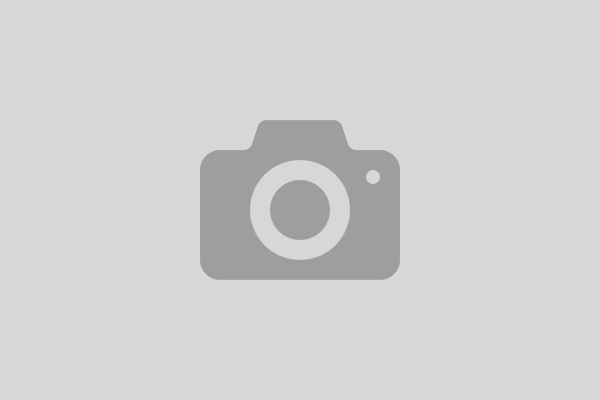
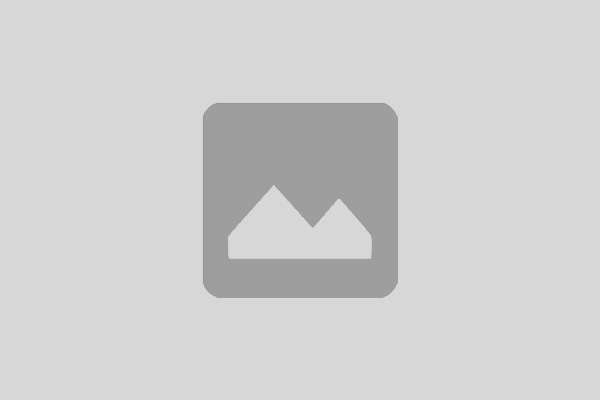
Added placeholder image for photo for #68

Changed region(s): [[0.33, 0.24, 0.69, 0.75], [0.66, 0.42, 0.69, 0.66]]

diff --git a/src/providers/api-service.ts b/src/providers/api-service.ts
@@ -168,8 +168,10 @@ export class ApiService extends HttpService {
               user.id = item.id;
               user.email = item.email;
               user.name = item.realname;
-              user.gravatar = item.gravatar;
-              user.image = `https://www.gravatar.com/avatar/${item.gravatar}.jpg?s=32`;
+              if (item.gravatar) {
+                user.gravatar = item.gravatar;
+                user.image = `https://www.gravatar.com/avatar/${item.gravatar}.jpg?s=32`;
+              }
               users.push(user);
               saves.push(this.database.saveUser(deployment, user));
             }
@@ -606,6 +608,7 @@ export class ApiService extends HttpService {
         let api = `/api/v3/media`;
         let url = deployment.url + api;
         let params = {
+          order: "desc",
           limit: limit,
           offset: offset };
         this.httpGet(url, deployment.access_token, params).then(

diff --git a/src/components/value/value.html b/src/components/value/value.html
@@ -14,7 +14,7 @@
     <div class="value-text" *ngIf="value.input == 'text'">{{value.value}}</div>
     <div class="value-textarea" *ngIf="value.input == 'textarea'">{{value.value}}</div>
     <div class="value-upload" *ngIf="value.input == 'upload'">
-      <img full class="lazy" [src]="value.image" [lazyLoad]="value.image"/>
+      <img full class="lazy" [src]="value.image" [lazyLoad]="value.image" [errorImage]="photoPaceholder"/>
     </div>
     <div class="value-varchar" *ngIf="value.input == 'varchar'">{{value.value}}</div>
     <div class="value-video" *ngIf="value.input == 'video'">

diff --git a/src/components/value/value.ts b/src/components/value/value.ts
@@ -3,6 +3,8 @@ import { SafeResourceUrl, DomSanitizer } from '@angular/platform-browser';
 
 import { LoggerService } from '../../providers/logger-service';
 
+import { PLACEHOLDER_PHOTO } from '../../constants/placeholders';
+
 @Component({
   selector: 'value-text',
   templateUrl: 'value.html',
@@ -14,6 +16,7 @@ export class ValueComponent {
   value: any;
   map: string = null;
   video: SafeResourceUrl = null;
+  photoPaceholder: string = PLACEHOLDER_PHOTO;
 
   constructor(
     public logger:LoggerService,
